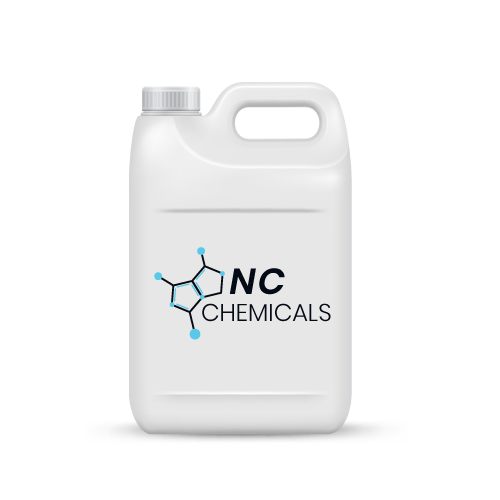
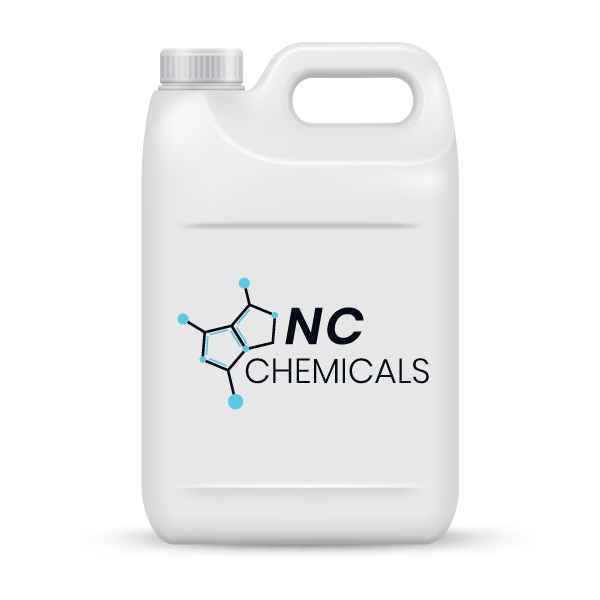
finish product page

Changed region(s): [[0.21, 0.06, 0.81, 0.93]]

diff --git a/shop.html b/shop.html
@@ -185,7 +185,28 @@
                                 <!-- Products Inserted Here -->
 
                                 <a class="shop-product col-md-4">
-                                    <img class="shop-product-image" src="./assets/images/products/1.png " alt="">
+                                    <img class="shop-product-image" src="./assets/images/products/t1.png " alt="">
+                                    <h5 class="shop-product-name">
+                                        Air Freshener
+                                    </h5>
+                                    <p class="shop-product-price">R 120</p>
+                                </a>
+                                <a class="shop-product col-md-4">
+                                    <img class="shop-product-image" src="./assets/images/products/t1.png " alt="">
+                                    <h5 class="shop-product-name">
+                                        Air Freshener
+                                    </h5>
+                                    <p class="shop-product-price">R 120</p>
+                                </a>
+                                <a class="shop-product col-md-4">
+                                    <img class="shop-product-image" src="./assets/images/products/t1.png " alt="">
+                                    <h5 class="shop-product-name">
+                                        Air Freshener
+                                    </h5>
+                                    <p class="shop-product-price">R 120</p>
+                                </a>
+                                <a class="shop-product col-md-4">
+                                    <img class="shop-product-image" src="./assets/images/products/t1.png " alt="">
                                     <h5 class="shop-product-name">
                                         Air Freshener
                                     </h5>

diff --git a/assets/js/main.js b/assets/js/main.js
@@ -1,5 +1,3 @@
-// Animation
-
 // Filter Size Check Boxes
 $(".card-filter-size li").click(function () {
     $(this).find("i").toggle()
@@ -10,28 +8,51 @@ $("#shop-settings-sort").click(() => {
     $("#shop-settings-sort-dropdown").toggleClass("open")
 });
 
-// Toggle Product Size Class
+// Toggle Product Size & Price
 $(".product-sizes span").click(function () {
+
+    // Toggle Product Size CLass
     $(".product-sizes span").removeClass("active");
-    $(this).addClass("active")
+    $(this).addClass("active");
+
+    // Product Size Price Adjust
+    let price = parseInt($(this).attr("data-size-price"));
+    $(".product-price span").html(price);
+    $(".product-quant span").html(1);
 });
+
 
 // Product Page Quantity Change
 $(".product-quant .quant-minus").click(() => {
-    let value = parseInt($(".product-quant span").html());
-    if (value !== 1) {
-        value--;
+    let quantity = parseInt($(".product-quant span").html());
+    if (quantity !== 1) {
+        quantity--;
     }
-    $(".product-quant span").html(value);
+    $(".product-quant span").html(quantity);
+
+    // Adjust Price for Quantity
+    let price = parseInt($(".product-sizes span.active").attr("data-size-price"));
+    $(".product-price span").html(price * quantity);
+    console.log(quantity)
 });
 
 $(".product-quant .quant-plus").click(() => {
-    let value = parseInt($(".product-quant span").html());
-    value++;
-    $(".product-quant span").html(value);
+    let quantity = parseInt($(".product-quant span").html());
+    quantity++;
+    $(".product-quant span").html(quantity);
+
+    // Adjust Price for Quantity
+    let price = parseInt($(".product-sizes span.active").attr("data-size-price"));
+    $(".product-price span").html(price * quantity);
+    console.log(quantity);
+    console.log(price);
 });
 
-// Product Quantity
+
+
+
+
+
 
 
 // Footer Insert

diff --git a/assets/css/main.css b/assets/css/main.css
@@ -378,10 +378,6 @@ footer a:hover {
     -o-transition: 0.2s ease;
 }
 
-.shop-product:hover {
-    /* border: 1px solid vqar(--light-blue); */
-}
-
 .shop-product-name {
     font-size: 1.1rem;
     font-weight: 400;
@@ -398,7 +394,7 @@ footer a:hover {
 
 .shop-product-image {
     display: block;
-    width: 85%;
+    width: 70%;
     margin: 0 auto;
     padding-bottom: 0.5rem;
     transition: 0.4s ease;
@@ -434,6 +430,7 @@ footer a:hover {
 }
 
 .product-container {
+    padding: 3rem 1rem;
     -webkit-box-shadow: 2px 0px 30px 15px rgba(35, 35, 35, 0.15);
     -moz-box-shadow: 2px 0px 30px 15px rgba(35, 35, 35, 0.15);
     box-shadow: 2px 0px 30px 15px rgba(35, 35, 35, 0.15);
@@ -442,15 +439,20 @@ footer a:hover {
 /* Product */
 
 .product-info {
-    padding: 4rem 2rem 2rem 4rem;
+    padding: 1rem 2rem 1rem 4rem;
     display: flex;
     flex-direction: column;
+    justify-content: center;
+}
+
+.product-image {
+    display: flex;
+    justify-content: center;
+    align-items: center;
 }
 
 .product-image img {
-    height: 90%;
-    display: block;
-    margin: 0 auto;
+    width: 100%;
 }
 
 .product-category {
@@ -505,7 +507,7 @@ footer a:hover {
 
 .product-price {
     margin: 1rem 0;
-    font-size: 1.25rem;
+    font-size: 1.3rem;
     font-weight: 500;
     display: inline-block;
     border-left: 3px solid var(--light-blue);

diff --git a/product.html b/product.html
@@ -54,10 +54,10 @@
                     </p>
                     <h6 class="product-label">Size:</h6>
                     <div class="product-sizes">
-                        <span class="active">5L</span>
-                        <span>25L</span>
+                        <span class="active" data-size-price="120">5L</span>
+                        <span data-size-price="480">25L</span>
                     </div>
-                    <h5 class="product-price">R 120.00</h5>
+                    <h5 class="product-price">R <span>120</span>.00</h5>
                     <div class="product-add-cart">
                         <div class="product-quant">
                             <i class="far fa-minus quant-minus"></i>
